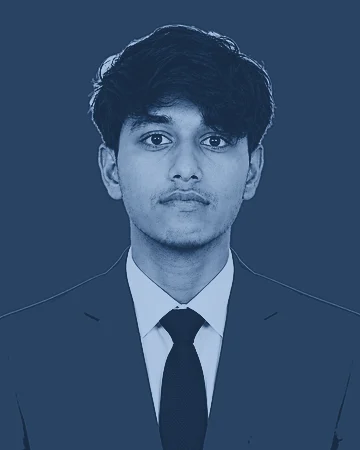
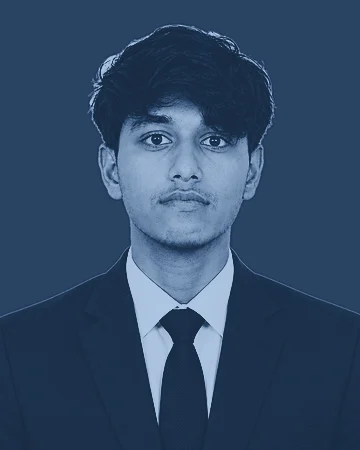
Half the phone scroll, aligned page feet, Naveen's suit fixed, band raised
- Phones scroll half as far (~7.7 screens, from ~14.4); desktop unchanged.
- The home logo sits in the same place on left and right phone pages, so it
  no longer jumps 54px at every turn.
- Naveen's portrait: the key floodfilled his suit from the bottom corners;
  keyed from the top only it prints dark navy like the other four.
- Cover band lifted to 6vh; the phone tagline and buttons moved up with it;
  a 280px folding phone keeps its buttons on one row, clear of the book.
- LIVE badge: green dot removed.
Cover checked for text/book collisions at 45 sizes; pages audited clean at
360x640, 393x851, 412x915, 820x1180, 1024x768, 1280x720, 1440x900, 1920x1080.

diff --git a/apps/web/src/components/book.tsx b/apps/web/src/components/book.tsx
@@ -95,8 +95,15 @@ const pagesUnits = (turns: number) =>
   LEAD_IN + (turns - 1) * (TURN + GAP) + TURN + TRAIL;
 
 const OPEN = OPEN_VH / VH_PER_UNIT;
-const scrollLength = (turns: number) =>
-  `+=${Math.round(OPEN_VH + pagesUnits(turns) * VH_PER_UNIT)}%`;
+// One page per sheet scrolls HALF as far per unit (asked: "not so much
+// scrolling on mobile"). A phone has ~twice the sheets, and at the desktop
+// cadence the book was ~14 screens of thumb; it is ~7 now. The timeline is
+// unchanged -- only how much scroll a unit costs -- so the turn, the gaps and
+// the reveal keep their proportions, and the drag-to-turn reads its page
+// distance off the trigger at drag time, so it follows on its own.
+const PHONE_SCROLL = 0.5;
+const scrollLength = (turns: number, single = false) =>
+  `+=${Math.round((OPEN_VH + pagesUnits(turns) * VH_PER_UNIT) * (single ? PHONE_SCROLL : 1))}%`;
 
 // Frames requested per batch after the first. Ninety-one at once is ninety-one
 // parallel requests fighting the document for the connection on a cold load; in
@@ -900,7 +907,7 @@ export function Book() {
         scrollTrigger: {
           trigger: section,
           start: "top top",
-          end: scrollLength(turns),
+          end: scrollLength(turns, single),
           // Shorter in portrait: the catch-up that reads as weight under a
           // wheel reads as lag under a finger, and a dragged page that
           // arrives a second late is not the page you are dragging.
@@ -1355,7 +1362,7 @@ export function Book() {
             wrapper is `pointer-events-none` and the two buttons switch it back
             on, so the cover's copy never eats a click meant for the page and
             the buttons stop taking them the moment GSAP hides the block.  */}
-        <div className="pointer-events-none absolute inset-0 flex flex-col justify-center px-[7vw] text-left portrait:justify-stretch portrait:pt-[9vh] portrait:pb-[11vh] portrait:[@media(max-height:700px)]:pb-[calc(5.4vh+2.5rem)] landscape:ps-[7vw] landscape:pe-[4vw]">
+        <div className="pointer-events-none absolute inset-0 flex flex-col justify-center px-[7vw] text-left portrait:justify-stretch portrait:pt-[9vh] portrait:pb-[calc(10vh+2.6rem)] portrait:[@media(max-height:700px)]:pb-[calc(8vh+2.5rem)] landscape:ps-[7vw] landscape:pe-[4vw]">
           <div
             ref={kickerRef}
             // The hero sits DIRECTLY on the photograph in portrait, with no
@@ -1474,6 +1481,10 @@ export function Book() {
                 - The focus ring is drawn outside the pill, in the headline's
                   blue, because both fills are close to what surrounds them.
 
+                Under 340px wide (a folding phone's 280px cover screen) the type
+                drops to 0.44rem and 0.1em: wrapped to two rows there, the
+                taller group pushed the tagline up onto the book.
+
                 ONE ROW in portrait, and that constraint is unchanged: at
                 0.5rem, 0.18em of tracking and 0.8rem of side padding the pair
                 fits the 338px a 393px phone has, and `flex-wrap` is the
@@ -1484,7 +1495,7 @@ export function Book() {
                 data-nav-item
                 data-index={BOOK_PAGES.length - 1}
                 data-page="last"
-                className="group pointer-events-auto inline-flex cursor-pointer items-center gap-[0.8em] rounded-full border border-white/25 bg-white/[0.06] px-[clamp(1.1rem,1.9vw,1.6rem)] py-[clamp(0.7rem,1.45vh,1rem)] text-[clamp(0.55rem,0.78vw,0.72rem)] tracking-[0.26em] text-white uppercase backdrop-blur-md outline-none transition-[background-color,border-color] duration-300 [text-shadow:none] hover:border-white/55 hover:bg-white/[0.12] focus-visible:ring-2 focus-visible:ring-[#9dc0ee] focus-visible:ring-offset-2 focus-visible:ring-offset-[#050b14] portrait:px-[0.8rem] portrait:py-[0.7rem] portrait:text-[0.5rem] portrait:tracking-[0.18em] motion-reduce:transition-none"
+                className="group pointer-events-auto inline-flex cursor-pointer items-center gap-[0.8em] rounded-full border border-white/25 bg-white/[0.06] px-[clamp(1.1rem,1.9vw,1.6rem)] py-[clamp(0.7rem,1.45vh,1rem)] text-[clamp(0.55rem,0.78vw,0.72rem)] tracking-[0.26em] text-white uppercase backdrop-blur-md outline-none transition-[background-color,border-color] duration-300 [text-shadow:none] hover:border-white/55 hover:bg-white/[0.12] focus-visible:ring-2 focus-visible:ring-[#9dc0ee] focus-visible:ring-offset-2 focus-visible:ring-offset-[#050b14] portrait:px-[0.8rem] portrait:py-[0.7rem] portrait:text-[0.5rem] portrait:tracking-[0.18em] [@media(max-width:340px)]:text-[0.44rem] [@media(max-width:340px)]:tracking-[0.1em] motion-reduce:transition-none"
               >
                 Begin a project
                 <span
@@ -1498,7 +1509,7 @@ export function Book() {
                 type="button"
                 data-nav-item
                 data-index="0"
-                className="group relative pointer-events-auto inline-flex cursor-pointer items-center gap-[0.9em] overflow-hidden rounded-full bg-[#dce7f7] py-[clamp(0.35rem,0.8vh,0.55rem)] ps-[clamp(1.1rem,1.9vw,1.6rem)] pe-[clamp(0.35rem,0.5vw,0.5rem)] text-[clamp(0.55rem,0.78vw,0.72rem)] font-medium tracking-[0.26em] text-[#0b1a2e] uppercase shadow-[0_12px_40px_-14px_rgba(157,192,238,0.75)] outline-none transition-[background-color,box-shadow,transform] duration-300 [text-shadow:none] hover:-translate-y-px hover:bg-white hover:shadow-[0_16px_50px_-12px_rgba(157,192,238,0.95)] focus-visible:ring-2 focus-visible:ring-[#9dc0ee] focus-visible:ring-offset-2 focus-visible:ring-offset-[#050b14] active:translate-y-0 portrait:py-[0.51rem] portrait:ps-[0.8rem] portrait:pe-[0.3rem] portrait:text-[0.5rem] portrait:tracking-[0.18em] motion-reduce:transition-none"
+                className="group relative pointer-events-auto inline-flex cursor-pointer items-center gap-[0.9em] overflow-hidden rounded-full bg-[#dce7f7] py-[clamp(0.35rem,0.8vh,0.55rem)] ps-[clamp(1.1rem,1.9vw,1.6rem)] pe-[clamp(0.35rem,0.5vw,0.5rem)] text-[clamp(0.55rem,0.78vw,0.72rem)] font-medium tracking-[0.26em] text-[#0b1a2e] uppercase shadow-[0_12px_40px_-14px_rgba(157,192,238,0.75)] outline-none transition-[background-color,box-shadow,transform] duration-300 [text-shadow:none] hover:-translate-y-px hover:bg-white hover:shadow-[0_16px_50px_-12px_rgba(157,192,238,0.95)] focus-visible:ring-2 focus-visible:ring-[#9dc0ee] focus-visible:ring-offset-2 focus-visible:ring-offset-[#050b14] active:translate-y-0 portrait:py-[0.51rem] portrait:ps-[0.8rem] portrait:pe-[0.3rem] portrait:text-[0.5rem] portrait:tracking-[0.18em] [@media(max-width:340px)]:text-[0.44rem] [@media(max-width:340px)]:tracking-[0.1em] motion-reduce:transition-none"
               >
                 <span
                   aria-hidden
@@ -1545,8 +1556,9 @@ export function Book() {
               reader hears the five once, as a list.
             - Edges fade out through a mask rather than stopping at the window,
               so words arrive rather than pop.
-            - Lifted off the screen's edge (2.4vh, 10-28px) and ruled top and
-              bottom, asked for "slightly up, not fully at the bottom".
+            - Lifted off the screen's edge (6vh, 20-64px) and ruled top and
+              bottom, asked for "slightly up, not fully at the bottom", then
+              "up more".
             - Pauses under the pointer, so it can be read; still under reduced
               motion, where it is centred and shows one copy.
             - Outside `kickerRef` (placed against the screen, like the ribbon)
@@ -1554,7 +1566,7 @@ export function Book() {
         <div
           ref={bandRef}
           data-hero-band
-          className="group/band pointer-events-auto absolute inset-x-0 bottom-[clamp(10px,2.4vh,28px)] z-[2] border-y border-white/10 bg-[linear-gradient(to_top,rgba(5,11,20,0.78),rgba(5,11,20,0.25))] py-[clamp(0.55rem,1.3vh,0.9rem)] [mask-image:linear-gradient(to_right,transparent,black_8%,black_92%,transparent)] [text-shadow:none]"
+          className="group/band pointer-events-auto absolute inset-x-0 bottom-[clamp(20px,6vh,64px)] z-[2] border-y border-white/10 bg-[linear-gradient(to_top,rgba(5,11,20,0.78),rgba(5,11,20,0.25))] py-[clamp(0.55rem,1.3vh,0.9rem)] [mask-image:linear-gradient(to_right,transparent,black_8%,black_92%,transparent)] [text-shadow:none]"
         >
           <div className="flex w-max motion-safe:animate-marquee motion-safe:group-hover/band:[animation-play-state:paused] motion-reduce:mx-auto">
             {[0, 1].map((copy) => (

diff --git a/apps/web/src/components/book-sheets.tsx b/apps/web/src/components/book-sheets.tsx
@@ -2368,7 +2368,7 @@ const WORK_CHAPTER = BOOK_PAGES.findIndex((page) =>
  * A LIVE SITE IN THE PLATE'S PLACE: calioon.com, running, inside the same
  * 16:9 window the other three studies print their plates in.
  *
- * - A browser bar: a pulsing LIVE badge, the address, a DESKTOP / PHONE
+ * - A browser bar: a LIVE badge (the word only), the address, a DESKTOP / PHONE
  *   toggle, reload, and "open in a new tab".
  * - The site is rendered at a real width and SCALED into the window --
  *   1280px for desktop, 390px for phone. Unscaled, a ~420px frame would only
@@ -2465,10 +2465,7 @@ function LivePlate({
           <span className="size-[0.55em] rounded-full bg-white/20" />
         </span>
         <span className="flex shrink-0 items-center gap-[0.45em] rounded-full bg-[#9dc0ee]/12 px-[0.65em] py-[0.2em] font-medium tracking-[0.22em] text-[#cfe0f7] uppercase">
-          <span aria-hidden className="relative flex size-[0.6em]">
-            <span className="absolute inset-0 rounded-full bg-[#6ee7a8] opacity-70 motion-safe:animate-ping" />
-            <span className="relative size-full rounded-full bg-[#6ee7a8]" />
-          </span>
+          {/* The word only: the pulsing green dot was removed on request. */}
           Live
         </span>
         <span className="flex min-w-0 flex-1 items-center gap-[0.4em] truncate rounded-full bg-white/[0.06] px-[0.8em] py-[0.25em] tracking-[0.06em] text-slate-200/90">
@@ -4081,7 +4078,12 @@ function VersoPage({
       >
         {roman(page.number)} &mdash; {page.title.toUpperCase()}
       </p>
-      <FootMark end={endInset} />
+      {/* On a one-page-per-sheet screen the mark takes the RECTO's place
+          (11% in from the edge), so it does not jump sideways at every turn:
+          it sat at the column's end here, which reserves the thumb index and
+          put it 54px left of the recto's at 393x851. The index hangs at
+          mid-height and never reaches this line. */}
+      <FootMark end={flush ? "11%" : endInset} />
     </div>
   );
 }

diff --git a/CLAUDE.md b/CLAUDE.md
@@ -972,6 +972,28 @@ could fill, because `flex-1` was `lg`-only there and its call to action's
   first page ends 11px into its drop folio and 04's colophon 7px into it. So
   does 844x390 on 04 and 05, which is the collapsed landscape layout.
 
+### Phone scroll halved, feet aligned, Naveen keyed properly
+
+- **Phones scroll half as far** (`PHONE_SCROLL = 0.5` in `scrollLength`):
+  ~7.7 screens for the whole book at 393x851, from ~14.4. The timeline is
+  unchanged; only scroll per unit. Desktop stays at 8.8.
+- **Folio and home mark are 1.5x** (mark 27-36px, folio 0.825-1.05rem), and
+  `PAGE_FOOT` is 2rem (1.6 portrait) to clear the taller folio. On a phone
+  the verso's mark takes the RECTO's place (11% in), so it no longer jumps
+  54px sideways at every turn; on a spread each page keeps its own. The
+  recto's folio sits just before its mark, out toward the page's edge.
+- **Cover band lifted to `clamp(20px,6vh,64px)`**; portrait hero padding is
+  band lift + band + gap, which also raised the tagline and buttons. Under
+  340px wide the buttons' type steps down so they stay on one row -- wrapped,
+  they pushed the tagline onto the book on a 280px folding phone.
+- **Cover collision sweep** (45 sizes: phones, folds, tablets both ways,
+  laptops, ultrawides, odd windows): text boxes measured against bright book
+  pixels with the copy hidden. All clear after the fold fix.
+- **Naveen's suit had been keyed as background**: his photo's suit runs off
+  the bottom edge, so the bottom-corner floodfills started inside it.
+  `build-team-portraits.sh` takes a `top` corners option; tone was never the
+  cause. The LIVE badge on 04 lost its green dot (word kept).
+
 ### Cover band, live work, five on the team, and no blink on load
 
 - **The cover's entrance is GSAP, run once, not CSS keyframes.** ScrollTrigger's
